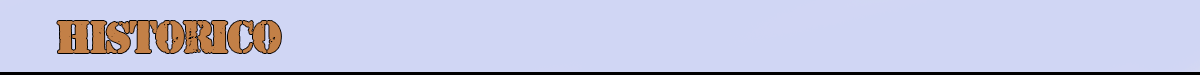
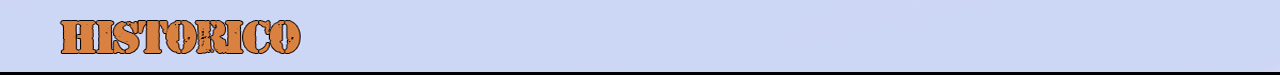
menu logado quase finalizado, historico de partidas corrigido

Changed region(s): [[0.0617, 0.2933, 0.2467, 0.6933], [0.185, 0.2933, 0.2158, 0.32], [0.1233, 0.64, 0.1542, 0.6667]]

diff --git a/telas/MenuLogado.py b/telas/MenuLogado.py
@@ -1,0 +1,81 @@
+"""
+Classe responsavel por mostrar o menu quando o jogador estiver logado com sucesso.
+"""
+from PPlay.window import *
+from componentes.botao import *
+from PPlay.gameimage import *
+from constant import estados
+
+
+class MenuLogado:
+
+    def __init__(self, janela: Window):
+
+        self.janela = janela
+
+        self.fundo = GameImage("assets/imagem/tela_inicial/fundo.png")
+
+        self.logo = GameImage("assets/imagem/tela_inicial/war.png")
+        self.logo.set_position(
+            self.janela.width/2-self.logo.width/2,
+            self.janela.height/4-self.logo.height/2
+        )
+
+        self.botoes = []
+
+        partida_online_sprite_normal = Sprite("assets/imagem/tela_logado/botao_p_online.png")
+        partida_online_sprite_destacado = Sprite("assets/imagem/tela_logado/botao_p_online_select.png")
+        botao_partida_online = Botao(partida_online_sprite_normal, partida_online_sprite_destacado, estados["buscar_sala"])
+        self.botoes.append(botao_partida_online)
+
+        partida_local_sprite_normal = Sprite("assets/imagem/tela_logado/botao_p_local.png")
+        partida_local_sprite_destacado = Sprite("assets/imagem/tela_logado/botao_p_local_select.png")
+        botao_partida_local = Botao(partida_local_sprite_normal, partida_local_sprite_destacado, estados["partida_local"])
+        self.botoes.append(botao_partida_local)
+
+        historico_sprite_normal = Sprite("assets/imagem/tela_logado/botao_historico.png")
+        historico_sprite_destacado = Sprite("assets/imagem/tela_logado/botao_historico_select.png")
+        botao_historico = Botao(historico_sprite_normal, historico_sprite_destacado, estados["historico"])
+        self.botoes.append(botao_historico)
+
+        #substituir por botao de logout
+        sair_sprite_normal = Sprite("assets/imagem/tela_inicial/botao_sair.png")
+        sair_sprite_destacado = Sprite("assets/imagem/tela_inicial/botao_sair_select.png")
+        botao_sair = Botao(sair_sprite_normal, sair_sprite_destacado, estados["sair"])
+        self.botoes.append(botao_sair)
+
+        # loop que calcula a posição de cada botão baseado na posição do anterior
+        tamanho_acumulado = 0
+        for index in range(len(self.botoes)):
+            self.botoes[index].setposition(
+                self.janela.width/2-self.botoes[index].width/2,
+                self.janela.height / 2 + tamanho_acumulado + 100 + index*20
+            )
+            tamanho_acumulado += self.botoes[index].height
+
+    def loop(self):
+
+        self.janela.clear()
+        mouse = Mouse()
+        mouse_foi_clicado = False  # variavel que impede que o usuário clique várias vezes
+        botao_clicado = 0
+
+        while True:
+
+            for botao in self.botoes:
+                clicou = botao.update()
+                if clicou:
+                    mouse_foi_clicado = True #bloqueia o botao de ser clicado
+                    botao_clicado = botao.code
+
+            if mouse_foi_clicado and not mouse.is_button_pressed(1):  # evitar que seja clicados diversas vezes
+                return botao_clicado
+
+            self.render()
+            self.janela.update()
+
+    def render(self):
+        self.fundo.draw()
+        self.logo.draw()
+        for botao in self.botoes:
+            botao.render()

diff --git a/telas/Login.py b/telas/Login.py
@@ -1,6 +1,7 @@
 from telas.JanelaPadrao import JanelaPadrao
 from PPlay.gameimage import GameImage
-from  PPlay.mouse import Mouse
+from PPlay.mouse import Mouse
+from constant import estados
 from componentes.campoTexto import CampoTexto
 from componentes.campoSenha import CampoSenha
 import pygame
@@ -11,6 +12,7 @@ from servico.Login import sign_in
 class Login(JanelaPadrao):
     def __init__(self, janela):
         super().__init__(janela)
+        self.login_sucesso = False
         self.bg = GameImage(image_file="./assets/imagem/tela_inicial/fundo.png")
         self.bg.set_scale(self.janela.width , self.janela.height)
         self.loginCampo = CampoTexto(janela,320, 240 ,640,60)
@@ -24,6 +26,9 @@ class Login(JanelaPadrao):
 
         while True:
             self.draw()
+            if self.login_sucesso:
+                self.janela.input_pygame = False
+                return estados["menu_logado"]
             self.janela.update()
 
     def draw(self):
@@ -40,6 +45,7 @@ class Login(JanelaPadrao):
             if not token:
                 print("Falha ao fazer o login")
             else:
+                self.login_sucesso = True
                 print("Login feito com sucesso")
         self.loginCampo.evento(e)
         self.senhaCampo.evento(e)

diff --git a/telas/ControladorJogo.py b/telas/ControladorJogo.py
@@ -2,7 +2,9 @@
 Classe responsavel por gerenciar e instanciar as diversas telas do jogo
 """
 from PPlay.window import *
+from telas.HistoricoDePartidas import *
 from telas.Login import *
+from telas.MenuLogado import *
 from telas.MenuInicial import *
 from constant import estados
 
@@ -21,9 +23,20 @@ class ControladorJogo:
                 menu_inicial = MenuInicial(self.janela)
                 self.estado_do_jogo = menu_inicial.loop()
 
-            if self.estado_do_jogo == estados["login"]:
+            elif self.estado_do_jogo == estados["login"]:
                 login = Login(self.janela)
                 self.estado_do_jogo = login.loop()
 
-            if self.estado_do_jogo == estados["sair"]:
+            elif self.estado_do_jogo == estados["menu_logado"]:
+                menu_logado = MenuLogado(self.janela)
+                self.estado_do_jogo = menu_logado.loop()
+
+            elif self.estado_do_jogo == estados["historico"]:
+                historico = HistoricoDePartidas(self.janela, "id2")
+                self.estado_do_jogo = historico.loop()
+
+            elif self.estado_do_jogo == estados["sair"]:
+                exit(0)
+
+            else:
                 exit(0)

diff --git a/telas/HistoricoDePartidas.py b/telas/HistoricoDePartidas.py
@@ -90,8 +90,8 @@ class HistoricoDePartidas:
             sprite_normal = Sprite("assets/imagem/historico/slot_derrota_2.png")
             sprite_destacado = Sprite("assets/imagem/historico/slot_derrota_select.png")
             if self.partidas[i].to_dict()["vencedor"]:
-                sprite_normal = Sprite("assets/imagem/historico/slot_vitoria.png")
-                sprite_destacado = Sprite("assets/imagem/historico/slot_vitoria.png")
+                sprite_normal = Sprite("assets/imagem/historico/slot_vitoria_2.png")
+                sprite_destacado = Sprite("assets/imagem/historico/slot_vitoria_select.png")
 
             self.botoes.append(ItemDoHistorico(sprite_normal,
                                                sprite_destacado,
@@ -103,7 +103,7 @@ class HistoricoDePartidas:
                                                ))
             self.botoes[i].setposition(
                 50,
-                pos_inicial + tamanho_acumulado + 20 + i*30
+                pos_inicial + tamanho_acumulado + 20 + i*25
             )
 
             tamanho_acumulado += sprite_normal.height

diff --git a/constant.py b/constant.py
@@ -4,6 +4,11 @@ ALTURA_PADRAO = 720
 estados = {
     "menu_inicial": 1,
     "login": 2,
+    "cadastro": 3,
+    "menu_logado": 4,
+    "buscar_sala": 5,
+    "partida_local": 6,
+    "historico": 7,
     "sair": 20
 }
 
